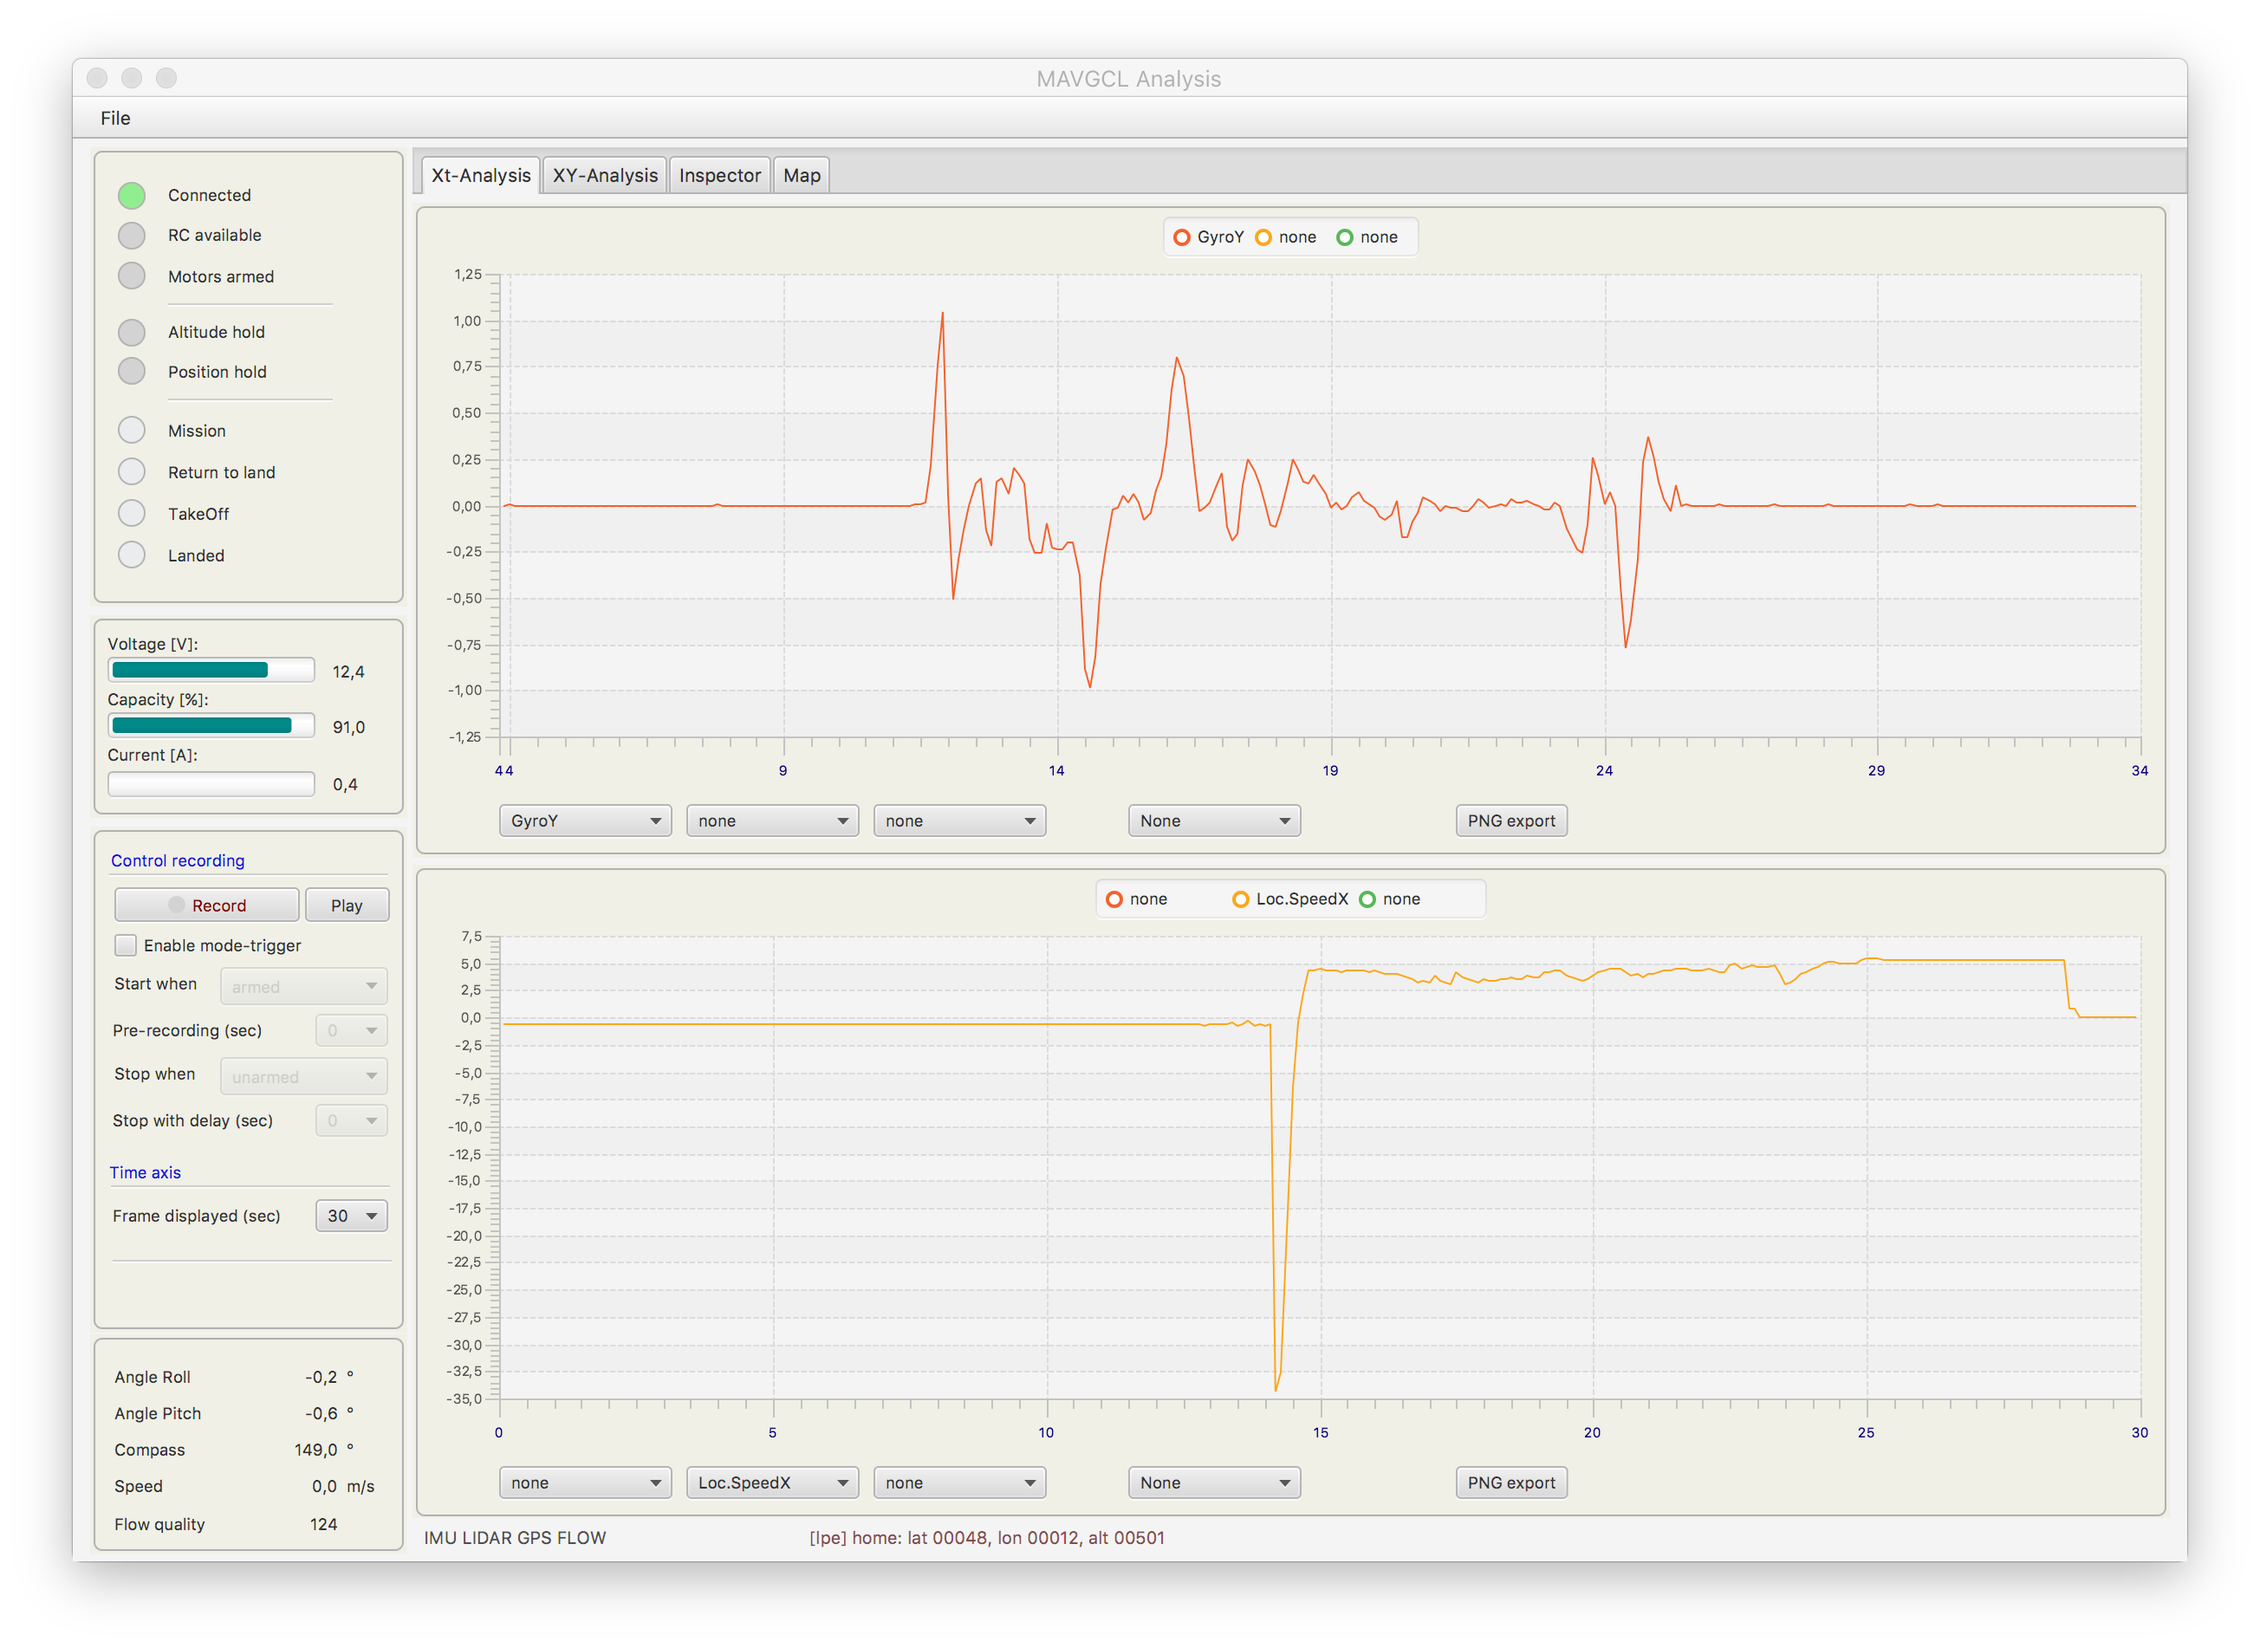
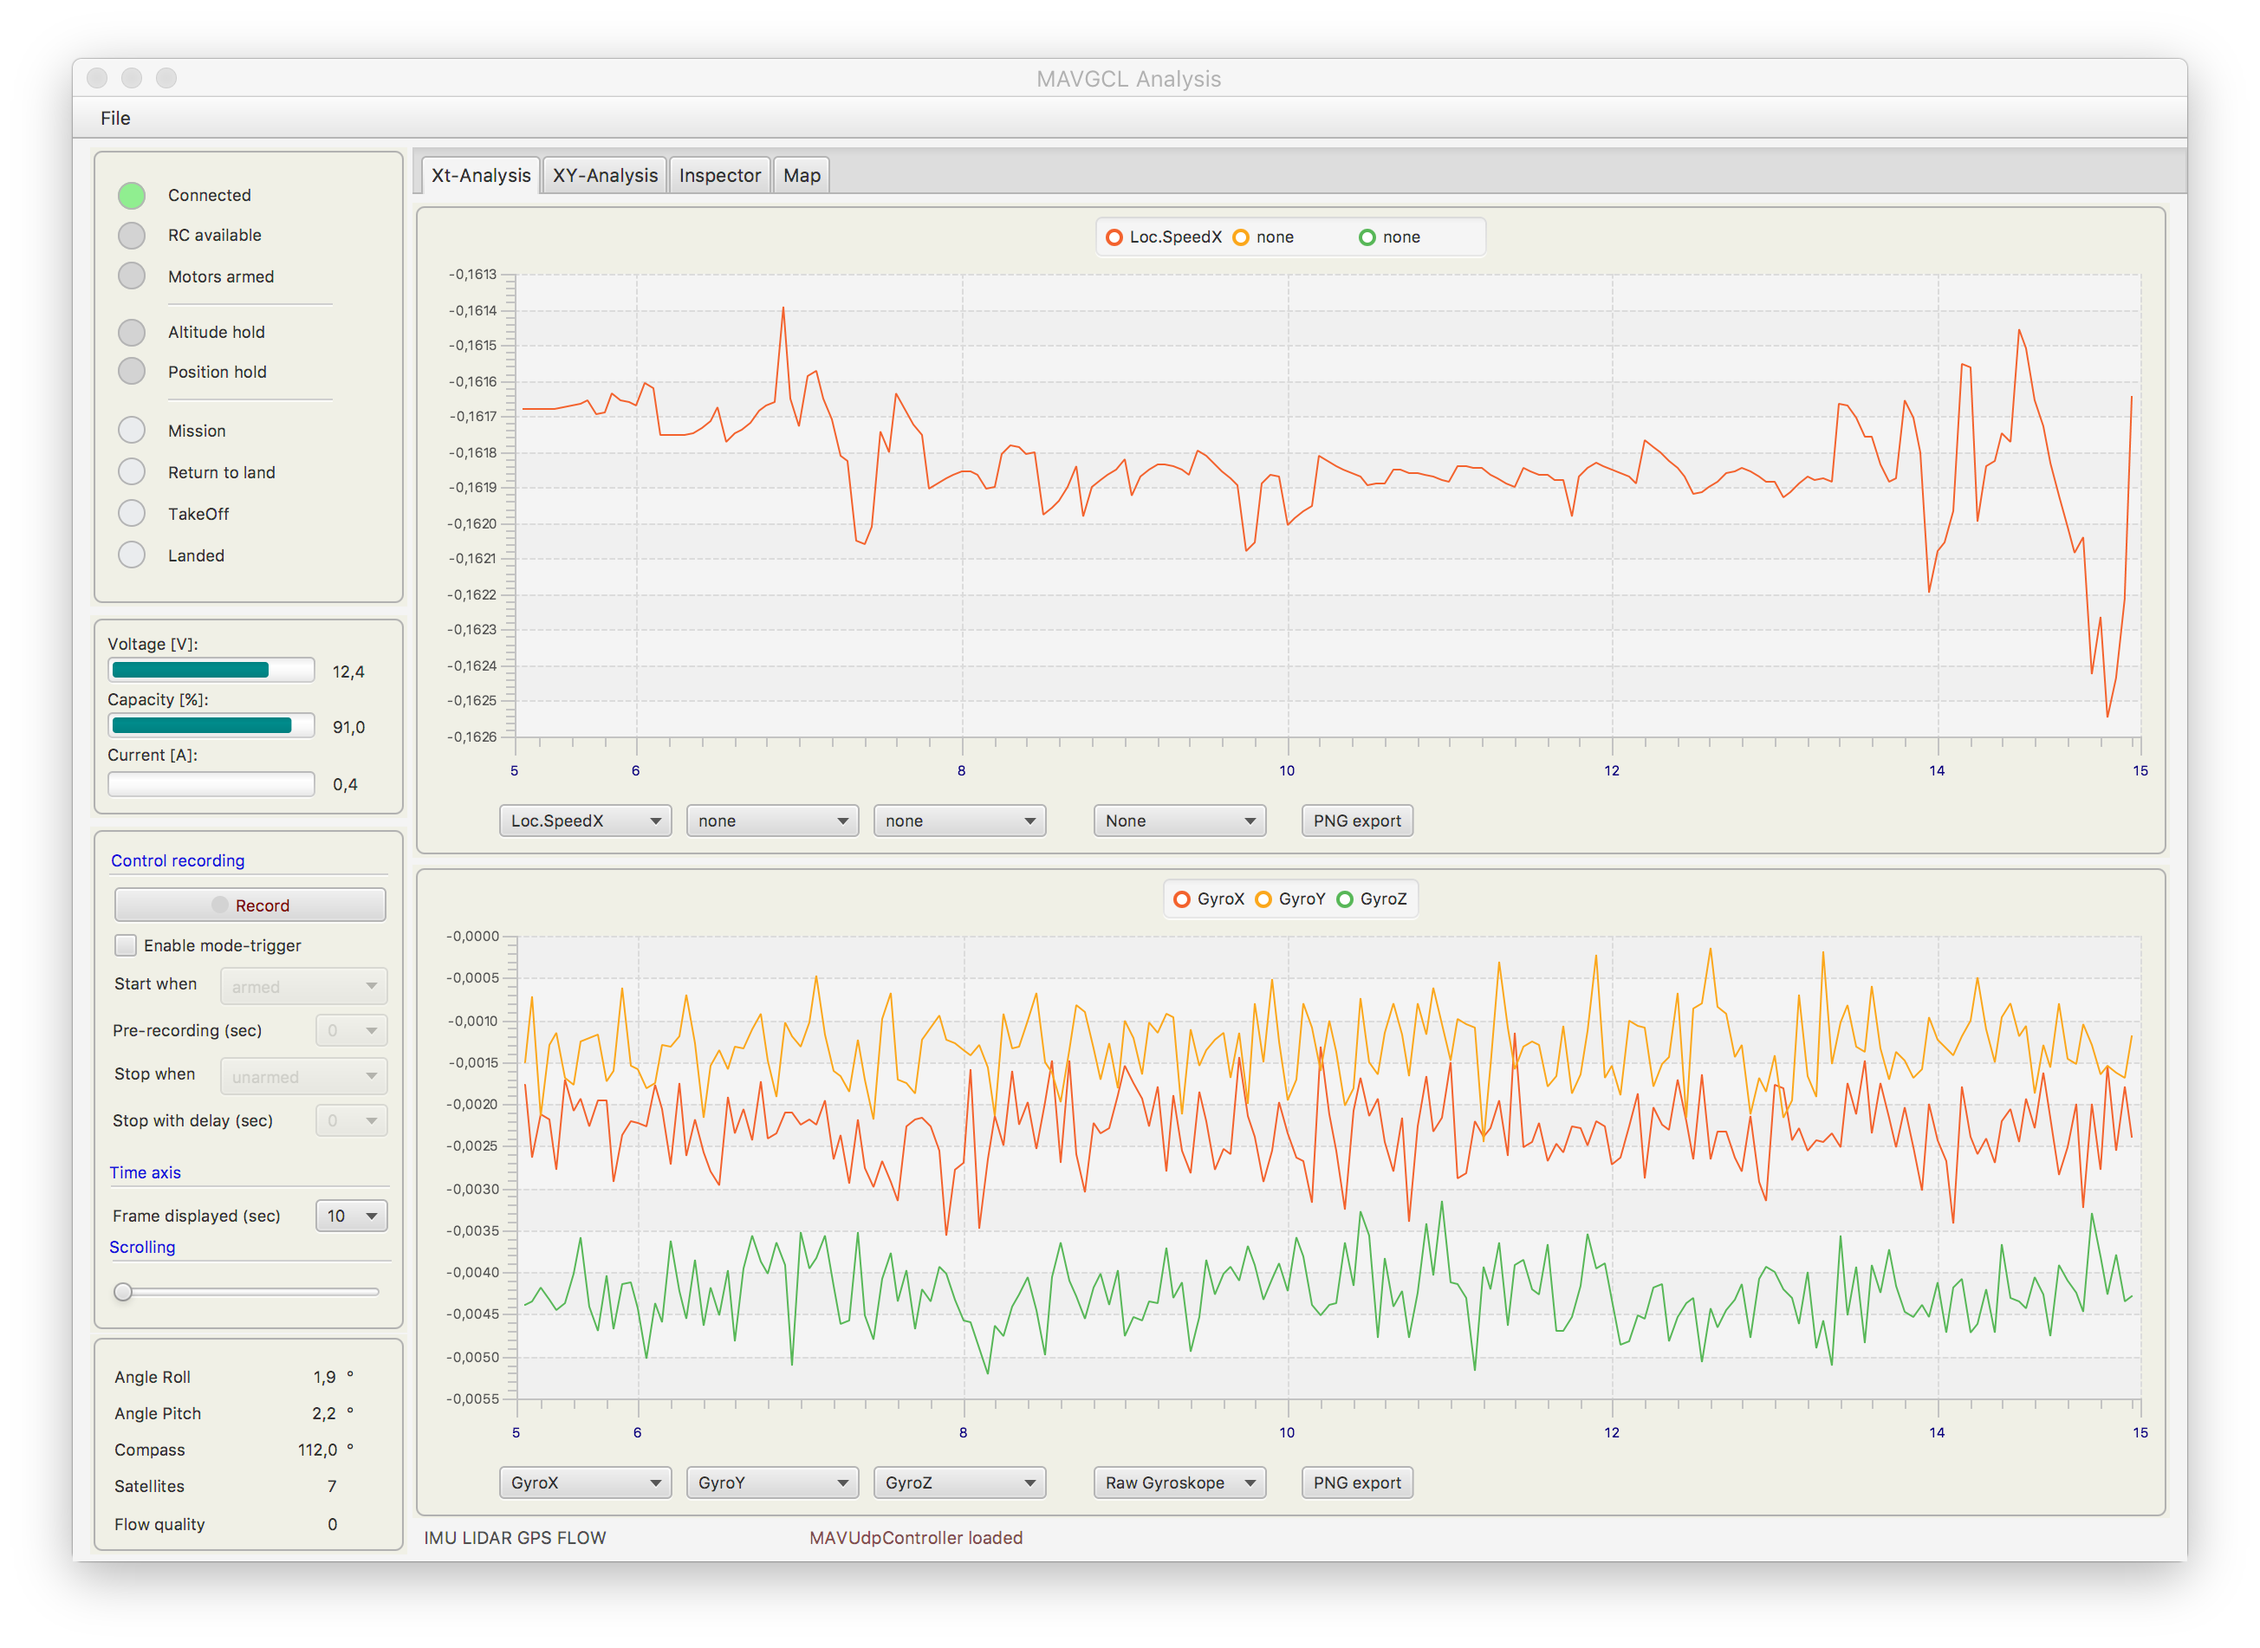
Scrolling smoother, Screenshot updated

diff --git a/MAVGCL/src/com/comino/flight/widgets/charts/line/LineChartWidget.java b/MAVGCL/src/com/comino/flight/widgets/charts/line/LineChartWidget.java
@@ -29,8 +29,10 @@ import com.comino.msp.model.DataModel;
 import com.comino.msp.utils.ExecutorService;
 
 import javafx.beans.property.BooleanProperty;
+import javafx.beans.property.DoubleProperty;
 import javafx.beans.property.IntegerProperty;
 import javafx.beans.property.SimpleBooleanProperty;
+import javafx.beans.property.SimpleDoubleProperty;
 import javafx.beans.property.SimpleIntegerProperty;
 import javafx.beans.value.ChangeListener;
 import javafx.beans.value.ObservableValue;
@@ -130,17 +132,17 @@ public class LineChartWidget extends BorderPane implements IChartControl {
 
 	private BooleanProperty isCollecting = new SimpleBooleanProperty();
 	private IntegerProperty timeFrame    = new SimpleIntegerProperty(30);
-	private IntegerProperty scroll    = new SimpleIntegerProperty(0);
+	private DoubleProperty scroll        = new SimpleDoubleProperty(0);
 
 
 	private int resolution_ms 	= 50;
 
 	private int current_x_pt=0;
-	private int replay_x_pt=0;
+
 	private int current_x0_pt = 0;
 	private int current_x1_pt = timeFrame.intValue() * 1000 / COLLECTOR_CYCLE;
 
-	private double m_x0=0;
+
 
 	public LineChartWidget() {
 
@@ -345,14 +347,14 @@ public class LineChartWidget extends BorderPane implements IChartControl {
 
 
 		scroll.addListener((v, ov, nv) -> {
-				if(!isCollecting.get()) {
-					current_x0_pt = (int)(
-							( control.getCollector().getModelList().size()  - timeFrame.get() *  1000 / COLLECTOR_CYCLE)
-							* (1 - nv.intValue() / 100f))	;
-					if(current_x0_pt<0)
-						current_x0_pt = 0;
-					updateGraph(true);
-				}
+			if(!isCollecting.get()) {
+				current_x0_pt = (int)(
+						( control.getCollector().getModelList().size()  - timeFrame.get() *  1000f / COLLECTOR_CYCLE)
+						* (1 - nv.intValue() / 100f))	;
+				if(current_x0_pt<0)
+					current_x0_pt = 0;
+				updateGraph(true);
+			}
 		});
 
 	}
@@ -468,7 +470,7 @@ public class LineChartWidget extends BorderPane implements IChartControl {
 	}
 
 	@Override
-	public IntegerProperty getScrollProperty() {
+	public DoubleProperty getScrollProperty() {
 		return scroll;
 	}
 

diff --git a/MAVGCL/src/com/comino/flight/tabs/openmap/MAVOpenMapTab.java b/MAVGCL/src/com/comino/flight/tabs/openmap/MAVOpenMapTab.java
@@ -43,6 +43,7 @@ import com.comino.openmapfx.ext.InformationLayer;
 import com.comino.openmapfx.ext.ThunderForestTileProvider;
 
 import javafx.beans.property.BooleanProperty;
+import javafx.beans.property.DoubleProperty;
 import javafx.beans.property.IntegerProperty;
 import javafx.beans.property.SimpleBooleanProperty;
 import javafx.beans.property.SimpleIntegerProperty;
@@ -107,9 +108,11 @@ public class MAVOpenMapTab extends BorderPane  implements IChartControl {
 	private boolean map_changed = false;
 	private boolean home_set = false;
 
+	private int index=0;
+
 	private BooleanProperty isCollecting = new SimpleBooleanProperty();
 	private IntegerProperty timeFrame    = new SimpleIntegerProperty(30);
-	private IntegerProperty scroll    = new SimpleIntegerProperty(0);
+
 
 	private ModelCollectorService collector;
 
@@ -240,7 +243,7 @@ public class MAVOpenMapTab extends BorderPane  implements IChartControl {
 		// Test paintlistener
 		canvasLayer.addPaintListener(new CanvasLayerPaintListener() {
 
-			Point2D p0; Point2D p1; int index=0; boolean first = true; DataModel m;
+			Point2D p0; Point2D p1;  boolean first = true; DataModel m;
 
 			@Override
 			public void redraw(GraphicsContext gc, double width, double height, boolean refresh) {
@@ -317,6 +320,8 @@ public class MAVOpenMapTab extends BorderPane  implements IChartControl {
 
 
 
+
+
 		zoom.setTooltip(new Tooltip("Zooming"));
 	}
 
@@ -342,8 +347,8 @@ public class MAVOpenMapTab extends BorderPane  implements IChartControl {
 
 
 	@Override
-	public IntegerProperty getScrollProperty() {
-		return scroll;
+	public DoubleProperty getScrollProperty() {
+		return null;
 	}
 
 

diff --git a/MAVGCL/src/com/comino/flight/widgets/charts/xy/XYChartWidget.java b/MAVGCL/src/com/comino/flight/widgets/charts/xy/XYChartWidget.java
@@ -29,8 +29,10 @@ import com.comino.msp.model.DataModel;
 import com.comino.msp.utils.ExecutorService;
 
 import javafx.beans.property.BooleanProperty;
+import javafx.beans.property.DoubleProperty;
 import javafx.beans.property.IntegerProperty;
 import javafx.beans.property.SimpleBooleanProperty;
+import javafx.beans.property.SimpleDoubleProperty;
 import javafx.beans.property.SimpleIntegerProperty;
 import javafx.beans.value.ChangeListener;
 import javafx.beans.value.ObservableValue;
@@ -128,7 +130,7 @@ public class XYChartWidget extends BorderPane implements IChartControl {
 
 	private BooleanProperty isCollecting = new SimpleBooleanProperty();
 	private IntegerProperty timeFrame    = new SimpleIntegerProperty(30);
-	private IntegerProperty scroll    = new SimpleIntegerProperty(0);
+	private DoubleProperty scroll        = new SimpleDoubleProperty(0);
 
 	private int totalTime 	= 30;
 	private int resolution 	= 50;
@@ -402,7 +404,7 @@ public class XYChartWidget extends BorderPane implements IChartControl {
 	}
 
 	@Override
-	public IntegerProperty getScrollProperty() {
+	public DoubleProperty getScrollProperty() {
 		return scroll;
 	}
 

diff --git a/MAVGCL/src/com/comino/flight/widgets/charts/control/ChartControlWidget.java b/MAVGCL/src/com/comino/flight/widgets/charts/control/ChartControlWidget.java
@@ -232,8 +232,10 @@ public class ChartControlWidget extends Pane implements IMSPModeChangedListener 
 		scroll.valueProperty().addListener(new ChangeListener<Number>() {
 			public void changed(ObservableValue<? extends Number> ov,
 					Number old_val, Number new_val) {
-				for(IChartControl chart : charts)
-					chart.getScrollProperty().set(new_val.intValue());
+				for(IChartControl chart : charts) {
+					if(chart.getScrollProperty()!=null)
+					   chart.getScrollProperty().set(new_val.intValue());
+				}
 
 
 			}

diff --git a/MAVGCL/src/com/comino/flight/widgets/charts/control/IChartControl.java b/MAVGCL/src/com/comino/flight/widgets/charts/control/IChartControl.java
@@ -17,13 +17,14 @@
 package com.comino.flight.widgets.charts.control;
 
 import javafx.beans.property.BooleanProperty;
+import javafx.beans.property.DoubleProperty;
 import javafx.beans.property.IntegerProperty;
 
 public interface IChartControl {
 
 	public BooleanProperty getCollectingProperty();
 	public IntegerProperty getTimeFrameProperty();
-	public IntegerProperty getScrollProperty();
+	public DoubleProperty getScrollProperty();
 
 
 }
